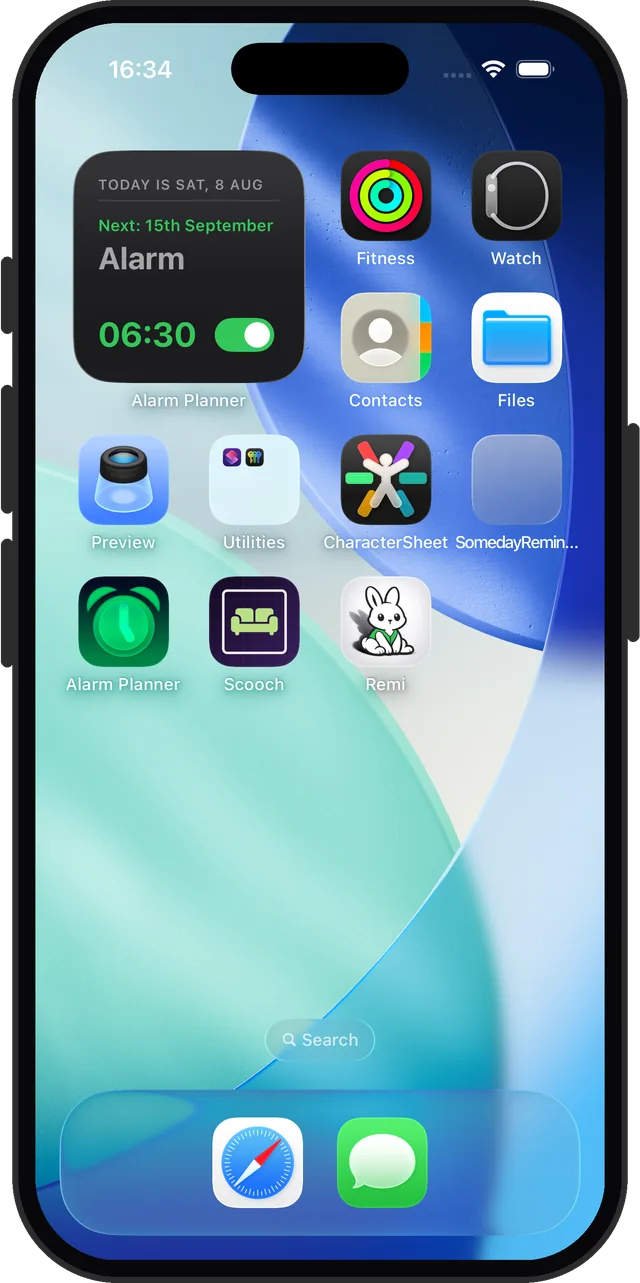
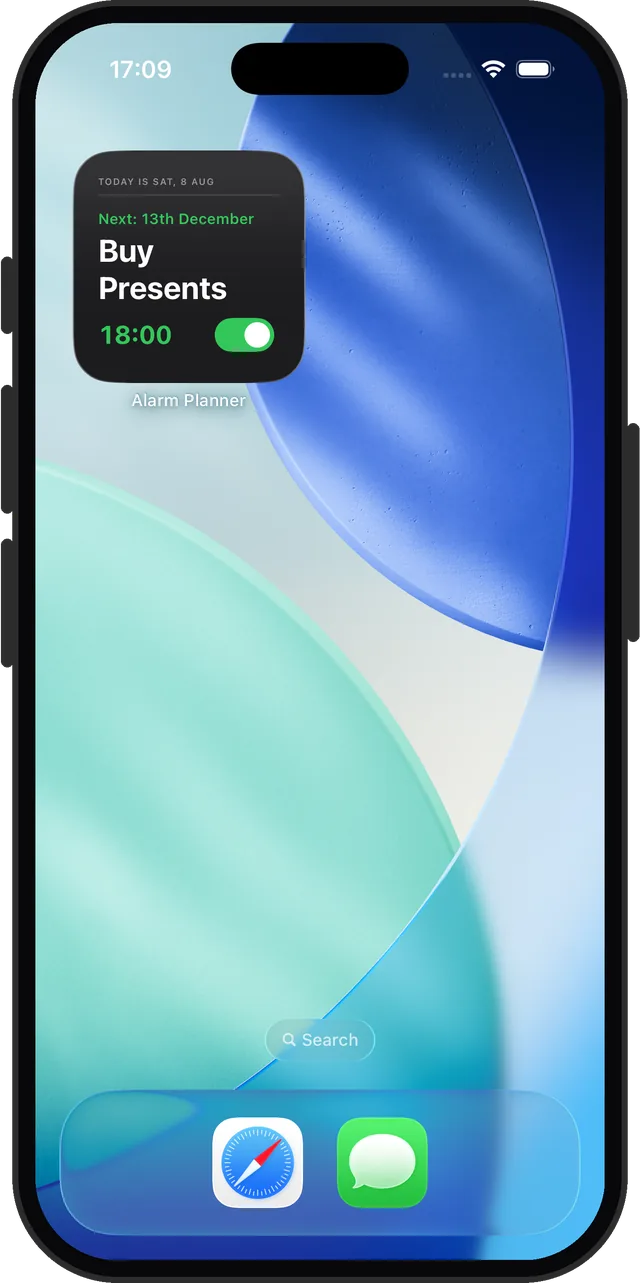
Guides: cleaner widget screenshot on an empty Home Screen
Replaces the first capture, which was a real cluttered Home Screen and
showed unreleased apps by name. Cropping was the alternative and was
rejected: every image on the site goes through one identical iPhone
shell, so a cropped one would be the only non-phone-shaped image here,
and the surrounding Home Screen is what proves the widget claim.

The new shot also carries the product better. "Next: 13th December, Buy
Presents" shows an alarm months out, which is the whole wedge, where the
old one showed a generic 06:30. Alt text and figcaption updated to match.

diff --git a/guides/iphone-alarm-widget-lock-screen/index.html b/guides/iphone-alarm-widget-lock-screen/index.html
@@ -118,8 +118,8 @@
 <p>Yes, but not from Apple. As of iOS 26 the built-in Clock app still ships no widget of any kind, so there is nothing to add from the stock alarm. That is why the search usually ends in disappointment: the widget gallery has Weather, Calendar, Reminders, and no alarm.</p>
 <p>Third-party alarm apps can fill the gap, and <a href="/">Alarm Clock Planner</a> does. It provides a small Home Screen widget and two Lock Screen widgets, circular and rectangular, all showing your next alarm.</p>
 <figure>
-  <img class="screen" src="/assets/shot-widget-home.webp" alt="iPhone Home Screen with the Alarm Clock Planner widget showing the next alarm on 15th September at 06:30 and a toggle" loading="lazy" width="640" height="1283">
-  <figcaption>The Home Screen widget: next alarm, its date, and a toggle you can tap.</figcaption>
+  <img class="screen" src="/assets/shot-widget-home.webp" alt="iPhone Home Screen with the Alarm Clock Planner widget showing the next alarm, Buy Presents on 13th December at 18:00, and a toggle" loading="lazy" width="640" height="1283">
+  <figcaption>The Home Screen widget: the next alarm by name, the date it fires, and a toggle you can tap. This one is months out.</figcaption>
 </figure>
 
 <h2>The two-second check</h2>
